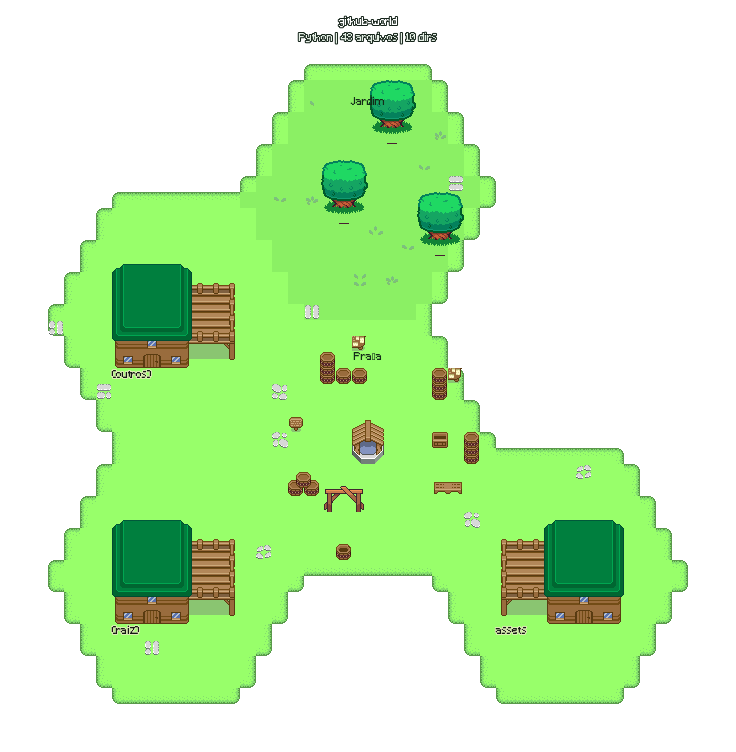
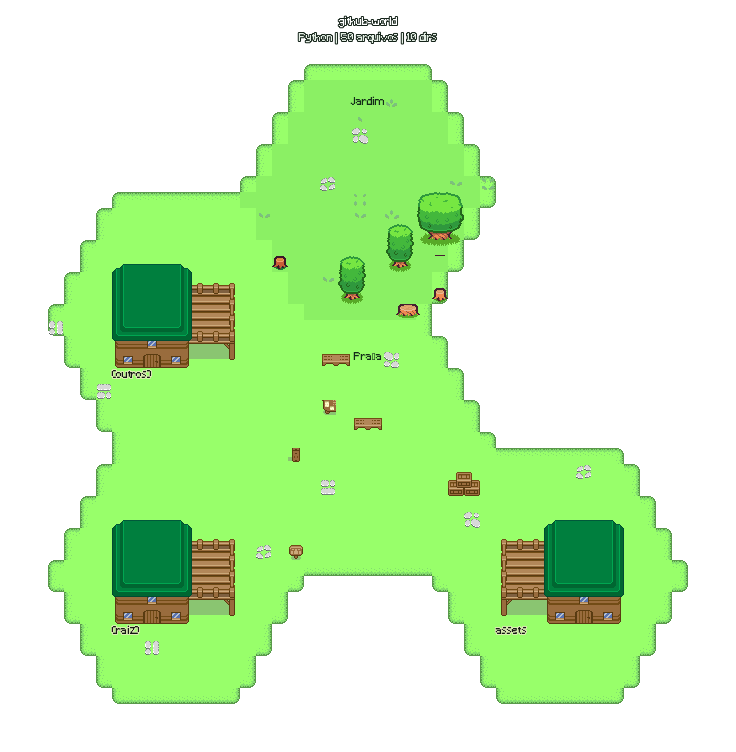
feat: controla vegetação por YAML

diff --git a/visual_config.py b/visual_config.py
@@ -1,0 +1,66 @@
+"""Carrega regras visuais editáveis sem misturá-las à lógica do layout."""
+from pathlib import Path
+import random
+
+import yaml
+
+
+BASE_DIR = Path(__file__).resolve().parent
+CONFIG_PATH = BASE_DIR / 'world.yaml'
+TREE_ORDER = ('large', 'small', 'large_stump', 'small_stump')
+
+
+def load_visual_config(path=CONFIG_PATH):
+    with Path(path).open(encoding='utf-8') as stream:
+        config = yaml.safe_load(stream) or {}
+    if not isinstance(config, dict):
+        raise ValueError('world.yaml deve conter um objeto YAML.')
+    return config
+
+
+def rule_matches(profile, conditions):
+    comparisons = {
+        'min_files': profile.files,
+        'min_directories': profile.directories,
+        'min_depth': profile.max_depth,
+        'min_dependencies': profile.dependencies,
+        'min_recent_commits': profile.recent_commits,
+        'min_days_inactive': profile.days_inactive,
+    }
+    allowed = set(comparisons) | {'has_tests', 'has_docs'}
+    unknown = set(conditions) - allowed
+    if unknown:
+        raise ValueError(f'Condições desconhecidas em world.yaml: {", ".join(sorted(unknown))}')
+    for key, actual in comparisons.items():
+        if key in conditions and (actual is None or actual < conditions[key]):
+            return False
+    for key, actual in {'has_tests': profile.has_tests, 'has_docs': profile.has_docs}.items():
+        if key in conditions and actual != bool(conditions[key]):
+            return False
+    return True
+
+
+def tree_counts(profile, config=None):
+    vegetation = (config or load_visual_config()).get('vegetation', {})
+    counts = dict(vegetation.get('defaults', {}))
+    for rule in vegetation.get('rules', []):
+        if rule_matches(profile, rule.get('when', {})):
+            counts.update(rule.get('trees', {}))
+    override = vegetation.get('repositories', {}).get(profile.name, {})
+    counts.update(override.get('trees', {}))
+    return {name: max(0, min(12, int(counts.get(name, 0)))) for name in TREE_ORDER}
+
+
+def tree_assets_for(profile, config=None):
+    config = config or load_visual_config()
+    vegetation = config.get('vegetation', {})
+    groups = vegetation.get('assets', {})
+    counts = tree_counts(profile, config)
+    rng = random.Random(f'{profile.name}/tree-variants')
+    selected = []
+    for category in TREE_ORDER:
+        variants = groups.get(category, [])
+        if counts[category] and not variants:
+            raise ValueError(f'Nenhum asset configurado para vegetation.assets.{category}')
+        selected.extend(rng.choice(variants) for _ in range(counts[category]))
+    return selected

diff --git a/tests/test_world.py b/tests/test_world.py
@@ -10,6 +10,7 @@ from github_activity import GitHubClient
 from repo_profile import DirectoryProfile, profile_repository
 from layout import DIRECTIONS, build_layout
 from renderer import save_world
+from visual_config import tree_assets_for, tree_counts
 
 
 def repository(name='example', count=6):
@@ -130,6 +131,27 @@ class ProfileTests(unittest.TestCase):
             tile = assets.get(name)
             self.assertLessEqual((tile.col+tile.width)*tile.tile_size,tile.tileset.width,name)
             self.assertLessEqual((tile.row+tile.height)*tile.tile_size,tile.tileset.height,name)
+
+    def test_tree_config_combines_rules_and_repository_override(self):
+        profile = profile_repository(repository(name='custom', count=3))
+        config = {
+            'vegetation': {
+                'assets': {
+                    'large': ['t1', 't2'], 'small': ['t3', 't4'],
+                    'large_stump': ['t5', 't6'], 'small_stump': ['t7', 't8'],
+                },
+                'defaults': {'large': 0, 'small': 1, 'large_stump': 0, 'small_stump': 1},
+                'rules': [{'when': {'min_files': 40}, 'trees': {'large': 2}}],
+                'repositories': {'custom': {'trees': {'small_stump': 3}}},
+            }
+        }
+        self.assertEqual(tree_counts(profile, config), {
+            'large': 2, 'small': 1, 'large_stump': 0, 'small_stump': 3,
+        })
+        selected = tree_assets_for(profile, config)
+        self.assertEqual(len(selected), 6)
+        self.assertTrue(set(selected[:2]) <= {'t1', 't2'})
+        self.assertTrue(set(selected[-3:]) <= {'t7', 't8'})
 
 
 class CollectionTests(unittest.TestCase):

diff --git a/layout.py b/layout.py
@@ -5,6 +5,7 @@ import hashlib
 import random
 from assets import assets, DECORATION_GROUPS
 from repo_profile import DirectoryProfile
+from visual_config import tree_assets_for
 
 TILE_SIZE = 16
 DIRECTIONS = ((1, 0), (1, -1), (0, -1), (-1, 0), (-1, 1), (0, 1))
@@ -165,7 +166,7 @@ def build_colony(profile):
     island.exit = min(available, key=lambda p: (-p[0], abs(p[1]-modules[0].anchor[1])))
     connect(island,modules[0].anchor,island.entrance)
     connect(island,modules[0].anchor,island.exit)
-    trees = ['t1','t2'] if profile.theme == 'forest' else ['t3','t4'] if profile.theme == 'research' else ['t7','t8'] if profile.theme == 'hardware' else ['t5','t6']
+    trees = tree_assets_for(profile)
     for m in modules:
         rng = random.Random(f'{profile.name}/{m.key}')
         def decorate(names, amount):
@@ -179,8 +180,15 @@ def build_colony(profile):
                     placed += 1
                     if placed >= amount:
                         break
+        def decorate_exact(names):
+            positions = sorted(m.cells)
+            rng.shuffle(positions)
+            for name in names:
+                for x,y in positions:
+                    if island.place(name,x,y,m.cells):
+                        break
         if m.kind == 'garden':
-            decorate(trees,3 + int((profile.days_inactive or 0) > 90))
+            decorate_exact(trees)
             decorate([f'f{i}' for i in range(1,11)],6 + min(profile.max_depth,3))
         elif m.kind == 'plaza':
             decorate(DECORATION_GROUPS['activity'],min(8,1+profile.recent_commits//5) if profile.recent_commits else 0)

diff --git a/README.md b/README.md
@@ -71,7 +71,32 @@ O nome diferencia maiúsculas de minúsculas. A coleta encontra esse arquivo na 
 | Testes identificados pelo caminho/nome | Cercas na praça |
 | README ou diretórios de documentação | Placa na praça |
 | Manifestos de dependências | Depósito ou caixa na praça |
-| Tópicos de pesquisa, hardware ou web | Diferentes grupos de árvores e vegetação |
+| Arquivos, diretórios, testes e documentação | Mistura de árvores definida pelas regras de `world.yaml` |
+
+## Controlar as árvores
+
+A mistura de árvores fica em `world.yaml`. Os quatro grupos correspondem diretamente aos sprites:
+
+| Grupo YAML | Assets | Aparência |
+| --- | --- | --- |
+| `large` | `t1`, `t2` | Árvores grandes |
+| `small` | `t3`, `t4` | Árvores pequenas |
+| `large_stump` | `t5`, `t6` | Tocos grandes |
+| `small_stump` | `t7`, `t8` | Tocos pequenos |
+
+`defaults` define a mistura mínima. As entradas de `rules` são aplicadas em ordem quando métricas como `min_files`, `min_directories`, `min_depth`, `has_tests` e `has_docs` combinam com o perfil. Por fim, `repositories.NOME.trees` substitui quantidades para um projeto específico. Exemplo:
+
+```yaml
+repositories:
+  github-world:
+    trees:
+      large: 1
+      small: 2
+      large_stump: 1
+      small_stump: 2
+```
+
+As quantidades ficam fixas pelo YAML. Para cada item, o gerador escolhe de forma determinística uma das duas variantes e procura aleatoriamente uma posição válida no jardim. Isso cria variedade sem perder o controle da composição. A API fornece as métricas usadas pelas regras; ela não precisa reescrever o YAML. Depois de editar, use `python3 generate.py --offline` para conferir rapidamente.
 
 Quando há mais de três bairros, os dois com mais arquivos aparecem individualmente e os demais são somados na casa `(outros)`. A interpretação dos dados mantém até seis grupos; o layout compacto reúne esses grupos em até três casas sem perder a contagem de arquivos. Arquivos da raiz formam o bairro `(raiz)`. Repositórios vazios recebem uma construção com o rótulo `(sem arquivos)`.
 
